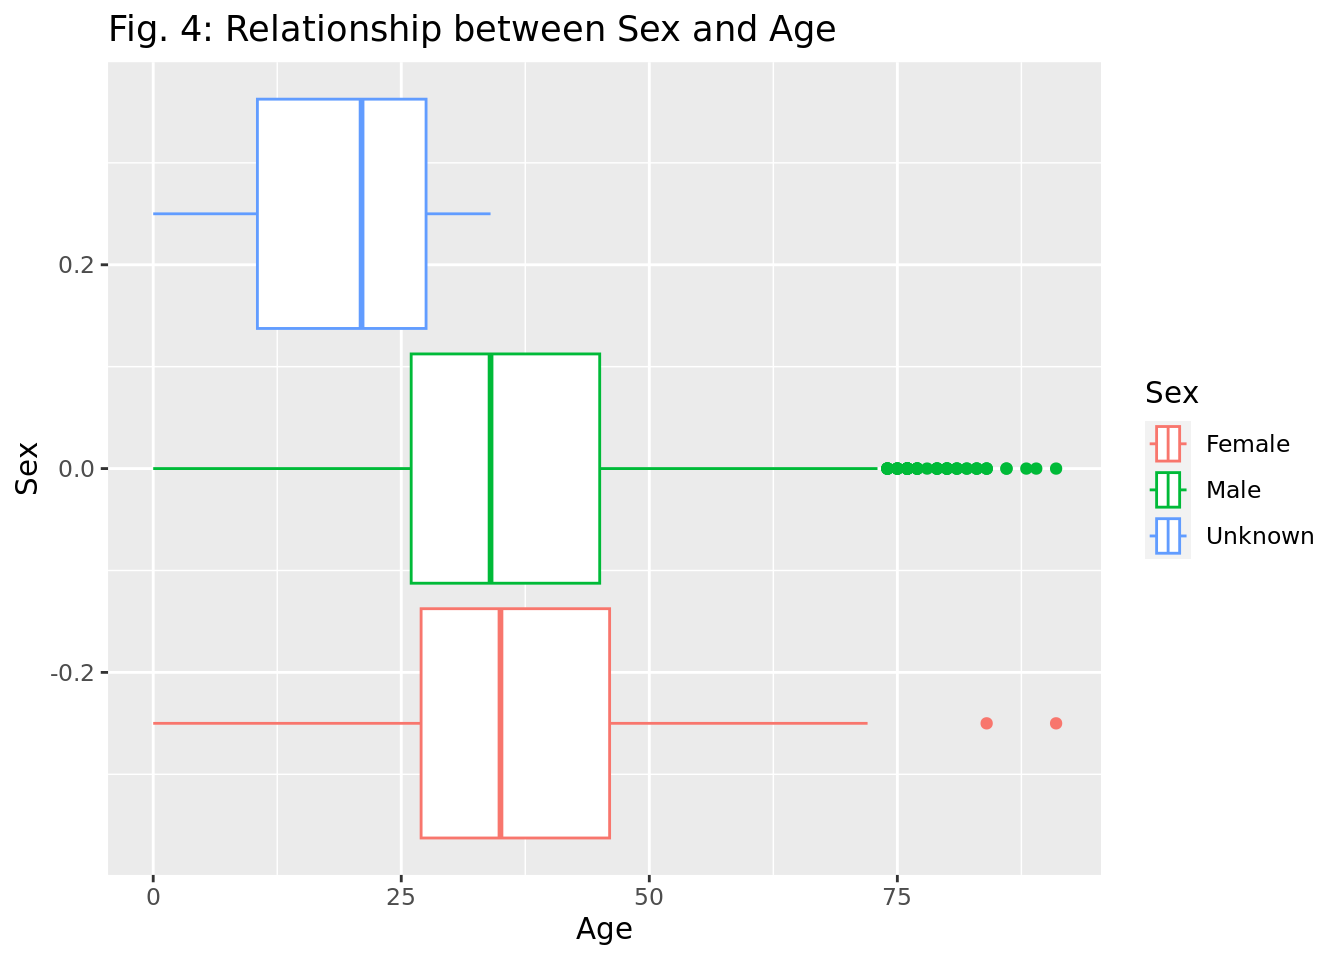
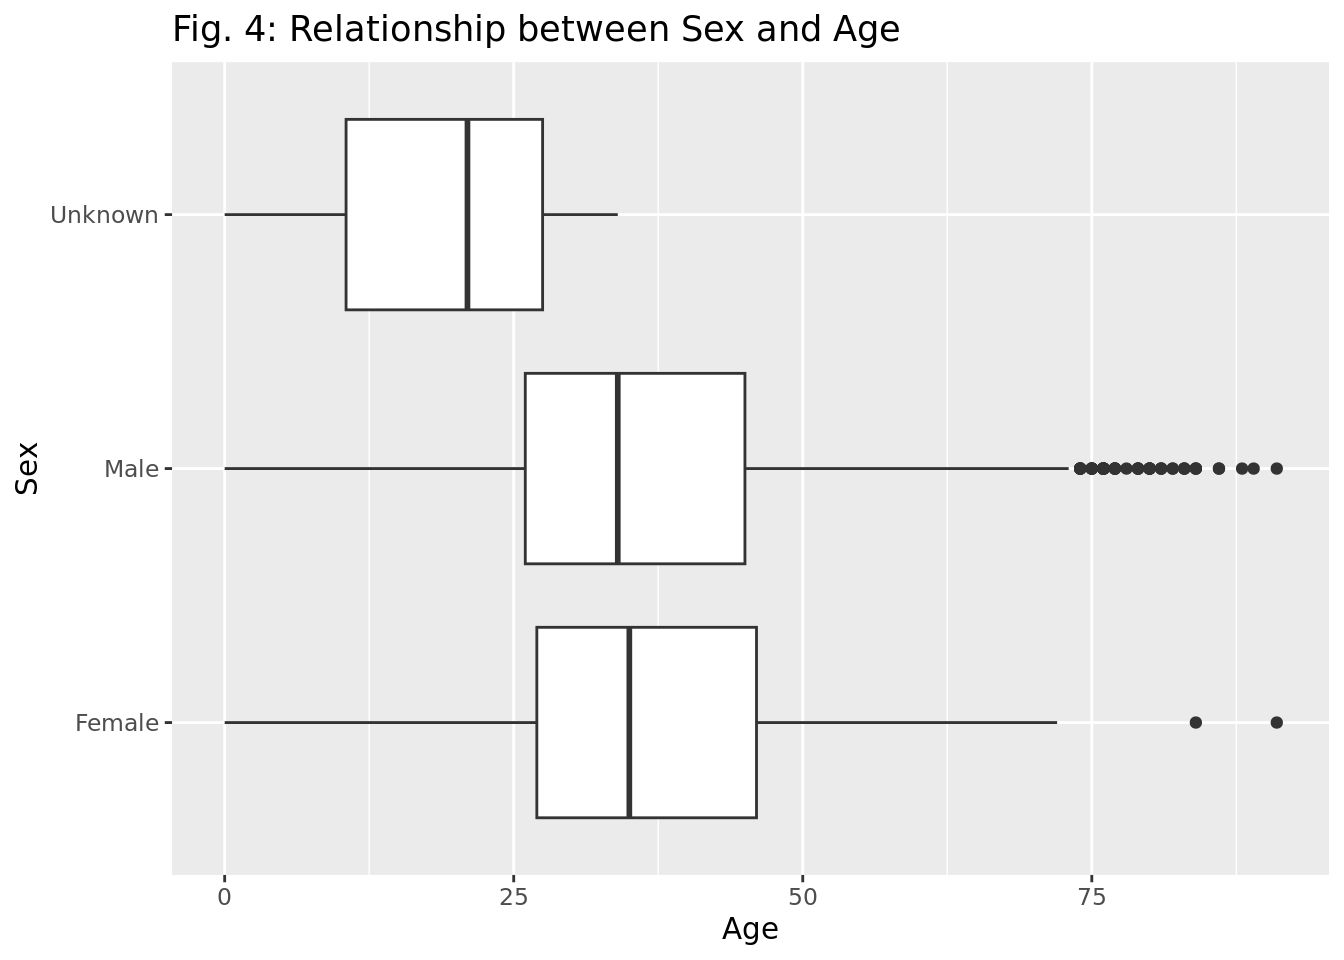
added AIC comments

diff --git a/docs/report.html b/docs/report.html
@@ -213,7 +213,7 @@ code span.wa { color: #60a0b0; font-weight: bold; font-style: italic; } /* Warni
 ✖ dplyr::lag()      masks stats::lag()
 ✖ yardstick::spec() masks readr::spec()
 ✖ recipes::step()   masks stats::step()
-• Dig deeper into tidy modeling with R at https://www.tmwr.org</code></pre>
+• Learn how to get started at https://www.tidymodels.org/start/</code></pre>
 </div>
 <div class="sourceCode cell-code" id="cb5"><pre class="sourceCode r code-with-copy"><code class="sourceCode r"><span id="cb5-1"><a href="#cb5-1" aria-hidden="true" tabindex="-1"></a><span class="fu">library</span>(readr)</span>
 <span id="cb5-2"><a href="#cb5-2" aria-hidden="true" tabindex="-1"></a><span class="fu">library</span>(infer)</span>
@@ -261,7 +261,7 @@ $ `Shooting.Body-Camera`   &lt;lgl&gt; TRUE, TRUE, TRUE, TRUE, TRUE, TRUE, TRUE,
 <p>How do race, gender, age, and whether a civilian was armed or not affect rates of police shootings across the United States from 2015 to 2021?</p>
 <p><strong>Data</strong></p>
 <p>Our data set includes 6569 rows, indicating that at least 6569 people were killed by police from 2015 to 2021. By discovering how different factors affect the number of shootings, we can begin to understand why these tragedies happen and what we can do to stop them from happening.</p>
-<p>Our research topic examines police shooting history on the basis of race, gender, and age. We hypothesize that male individuals of minority communities are most likely to consist of the largest victim population.</p>
+<p>Our research topic examines police shooting history on the basis of race, gender, and age. We hypothesize that male individuals who identify as a POC are most likely to consist of the largest victim population.</p>
 <p><strong>Ethical Concerns</strong></p>
 <p>One ethical concern is the possibility of misinformation in the data and a lack of accurate reporting. Not every police shooting is reported or handled correctly. Although <em>The Washington Post</em> collected the data from many different sources, there is no way of guaranteeing that the data set is fully comprehensive.</p>
 <p>Second, as demonstrated below, all 6,569 victims identified in this data set have been characterized as having a mental illness. As a result, we decide not to make a visualization based on the mental illness variable. We believe this would pose an ethical issue because mental health is a spectrum with varying characteristics and severity of impact. Having a mental illness cannot be reduced to a simple “TRUE” or “FALSE.” Instead, we decided that other variables would be a better focus.</p>
@@ -272,6 +272,7 @@ $ `Shooting.Body-Camera`   &lt;lgl&gt; TRUE, TRUE, TRUE, TRUE, TRUE, TRUE, TRUE,
 </div>
 </div>
 <p>Finally, a third concern is consent and whether the victims families want their loved ones to have identifying information (like name and information about their death) in a public database. This is a highly sensitive topic and should be treated as such.</p>
+<p>The following data was collected randomly and the observations are independent.</p>
 <p>We have identified several key variables that will advance our research question: Person.Name - String (Categorical)</p>
 <p><code>Person.Age</code> - Integer (Quantitative)</p>
 <p><code>Person.Gender</code> - String (Categorical)</p>
@@ -381,7 +382,7 @@ $ `Shooting.Body-Camera`   &lt;lgl&gt; TRUE, TRUE, TRUE, TRUE, TRUE, TRUE, TRUE,
 <div class="cell">
 <div class="sourceCode cell-code" id="cb19"><pre class="sourceCode r code-with-copy"><code class="sourceCode r"><span id="cb19-1"><a href="#cb19-1" aria-hidden="true" tabindex="-1"></a>police_shootings <span class="sc">|&gt;</span> </span>
 <span id="cb19-2"><a href="#cb19-2" aria-hidden="true" tabindex="-1"></a>  <span class="fu">ggplot</span>(</span>
-<span id="cb19-3"><a href="#cb19-3" aria-hidden="true" tabindex="-1"></a>    <span class="fu">aes</span>(<span class="at">x =</span> Person.Age, <span class="at">color =</span> Person.Race)) <span class="sc">+</span> </span>
+<span id="cb19-3"><a href="#cb19-3" aria-hidden="true" tabindex="-1"></a>    <span class="fu">aes</span>(<span class="at">x =</span> Person.Age, <span class="at">y =</span> Person.Race)) <span class="sc">+</span> </span>
 <span id="cb19-4"><a href="#cb19-4" aria-hidden="true" tabindex="-1"></a>    <span class="fu">geom_boxplot</span>() <span class="sc">+</span> </span>
 <span id="cb19-5"><a href="#cb19-5" aria-hidden="true" tabindex="-1"></a>    <span class="fu">labs</span>(<span class="at">title =</span> <span class="st">"Fig. 3: Relationship between Race and Age"</span>,</span>
 <span id="cb19-6"><a href="#cb19-6" aria-hidden="true" tabindex="-1"></a>         <span class="at">x =</span> <span class="st">"Age"</span>,</span>
@@ -394,7 +395,7 @@ $ `Shooting.Body-Camera`   &lt;lgl&gt; TRUE, TRUE, TRUE, TRUE, TRUE, TRUE, TRUE,
 <div class="cell">
 <div class="sourceCode cell-code" id="cb20"><pre class="sourceCode r code-with-copy"><code class="sourceCode r"><span id="cb20-1"><a href="#cb20-1" aria-hidden="true" tabindex="-1"></a>police_shootings <span class="sc">|&gt;</span> </span>
 <span id="cb20-2"><a href="#cb20-2" aria-hidden="true" tabindex="-1"></a>  <span class="fu">ggplot</span>(</span>
-<span id="cb20-3"><a href="#cb20-3" aria-hidden="true" tabindex="-1"></a>    <span class="fu">aes</span>(<span class="at">x =</span> Person.Age, <span class="at">color =</span> Person.Gender)) <span class="sc">+</span> </span>
+<span id="cb20-3"><a href="#cb20-3" aria-hidden="true" tabindex="-1"></a>    <span class="fu">aes</span>(<span class="at">x =</span> Person.Age, <span class="at">y =</span> Person.Gender)) <span class="sc">+</span> </span>
 <span id="cb20-4"><a href="#cb20-4" aria-hidden="true" tabindex="-1"></a>    <span class="fu">geom_boxplot</span>() <span class="sc">+</span> </span>
 <span id="cb20-5"><a href="#cb20-5" aria-hidden="true" tabindex="-1"></a>    <span class="fu">labs</span>(<span class="at">title =</span> <span class="st">"Fig. 4: Relationship between Sex and Age"</span>,</span>
 <span id="cb20-6"><a href="#cb20-6" aria-hidden="true" tabindex="-1"></a>         <span class="at">x =</span> <span class="st">"Age"</span>,</span>
@@ -454,7 +455,7 @@ $ `Shooting.Body-Camera`   &lt;lgl&gt; TRUE, TRUE, TRUE, TRUE, TRUE, TRUE, TRUE,
 <pre><code>[1] 8485.761</code></pre>
 </div>
 </div>
-<p>After fitting the logistic model and computing backwards elimination, we found the best model for our response variable(Factors.Threat.Level) to be an additive model between our four explanatory varibales: gender, race, armed status, and age. Therefore, whether or not a victim was seen as a threat was explaned with an additive interaction between gender, race, armed status, and age.</p>
+<p>After fitting the logistic model and computing backwards elimination, we found the best model for our response variable(Factors.Threat.Level) to be an additive model between our four explanatory variables: gender, race, armed status, and age. During backwards elimination, we fit several additive and interactive models between the four variables and determined the lowest AIC value. Therefore, whether or not a victim was seen as a threat was explained with an additive interaction between gender, race, armed status, and age.</p>
 <p>We will now investigate if the proportion of unarmed people who were shot by police equal for victims of color in comparison to white victims. We hypothesize that the proportion of unarmed people of color shot is significantly greater than the proportion of unarmed white people. In order to investigate this hypothesis, we will perform a hypothesis test using a significance level of <span class="math inline">\(\alpha = 0.05\)</span>.</p>
 <p>(Note: in the context of this question, we will consider someone as a “POC” if they do not identify as “White”)</p>
 <p><span class="math inline">\(\pi_{POC}\)</span> = the proportion of unarmed people out of those shot who identify as a POC.</p>
@@ -516,17 +517,7 @@ $ `Shooting.Body-Camera`   &lt;lgl&gt; TRUE, TRUE, TRUE, TRUE, TRUE, TRUE, TRUE,
 </div>
 </div>
 <p><strong>Results</strong></p>
-<<<<<<< HEAD
-<p>Based on our summary statistics for the entire data set, we observed that the mean and median age of shooting victims is 35.4 and 34.0 years, respectively. Moreover, the standard deviation of this age range is 14.9 years, demonstrating the wide spread of data points included.</p>
-<p>Figure 1 shows a slight decrease in shooting per day in 2021 though the total range of average shootings per day was from roughly 2.45 shootings to 2.8 shootings.</p>
-<p>Figure 2 looks at the arms status of victims by gender. This figure shows that female victims were more likely to be armed than male victims. One reason for this is that male victims could have been seen as more aggressive and therefore more likely to become a victim no matter if they were armed.</p>
-<p>In Figure 3, we can see that the age distribution of victims does not vary much between races. But if we look at the number of different races in the count of total victims, we can see white victims and African American victims were most common.</p>
-<p>As seen in Figure 4, the median age is roughly 34 years old for males and 35 years old for females. Male victims differ by their outliers, as many male victims are over the age of 75. The unknown victims appear to be significantly younger as seen by the median of ~21 years old.</p>
-<p>As seen in Figure 5, the most victimized race was white and black. Close to 3000 of the victims were white; whereas, over 1500 victims were black.</p>
-<p>As seen in Figure 6, the race with the most unarmed victims was black and the race with the least unarmed victims was Native American. This visualization can provide ample information on implicit bias and how race impacts the police’s approaches to interactions with different races.</p>
-<p>In Figure 7, we performed a hypothesis test, and got a p-value of 0.107. Utilizing a significance level of 0.05, we fail to reject the null hypothesis that the proportion of unarmed people out of those shot who identify as a POC is equal to the proportion of unarmed people out of those shot who identify as white, as 0.107 is greater than 0.05. Therefore, we have weak evidence to support the alternative hypothesis that the proportion of unarmed people out of those shot who identify as a POC is greater than the proportion of unarmed people out of those shot who identify as white.</p>
-=======
-<p>Based on our summary statistics for the entire data set, we observed that the mean and median age of shooting victims is 35.4 and 34.0 years, respectively. Moreover, the standard deviation of this age range is 14.9 years, demonstrating the wide spread of data points included. We noticed a slight decrease in shooting per day in 2021 though the total range of average shootings per day was small and somewhat insignificant (from roughly 2.45 shootings to 2.8 shootings). When looking at the arms status of victims by gender, female victims were more likely to be armed than male victims. One reason for this is that male victims could have been seen as more aggressive and therefore more likely to become a victim no matter if they were armed. The age distribution of victims does not vary much between races. When we look at the different races in the count of total victims, we can see white victims and african american victims were most common. Close to 2962 of the victims were white; whereas, 1552 victims were black. If race had no impact on probability of being a victim, the proportions of victims by race would be similar as the US population by race. White Americans represent 0.578 of the population. African americans make up 0.121 of the population.</p>
+<p>Based on our summary statistics for the entire data set, we observed that the mean and median age of shooting victims is 35.4 and 34.0 years, respectively. Moreover, the standard deviation of this age range is 14.9 years, demonstrating the wide spread of data points included. We noticed a slight decrease in shooting per day in 2021 though the total range of average shootings per day was small and somewhat insignificant (from roughly 2.45 shootings to 2.8 shootings). When looking at the arms status of victims by gender, female victims were more likely to be armed than male victims. One reason for this is that male victims could have been seen as more aggressive and therefore more likely to become a victim no matter if they were armed. The age distribution of victims does not vary much between races. When we look at the different races in the count of total victims, we can see white victims and African American victims were most common. Close to 2962 of the victims were white; whereas, 1552 victims were black. If race had no impact on probability of being a victim, the proportions of victims by race would be similar as the US population by race. White Americans represent 0.578 of the population. African Americans make up 0.121 of the population.</p>
 <div class="cell">
 <div class="sourceCode cell-code" id="cb32"><pre class="sourceCode r code-with-copy"><code class="sourceCode r"><span id="cb32-1"><a href="#cb32-1" aria-hidden="true" tabindex="-1"></a>police_shootings <span class="sc">|&gt;</span></span>
 <span id="cb32-2"><a href="#cb32-2" aria-hidden="true" tabindex="-1"></a>  <span class="fu">count</span>(Person.Race)</span></code><button title="Copy to Clipboard" class="code-copy-button"><i class="bi"></i></button></pre></div>
@@ -553,9 +544,8 @@ $ `Shooting.Body-Camera`   &lt;lgl&gt; TRUE, TRUE, TRUE, TRUE, TRUE, TRUE, TRUE,
 <pre><code>[1] 0.2362612</code></pre>
 </div>
 </div>
-<p>White americans represent 0.578 of the US population while they only represent 0.45 of the victims. African americans make up 0.121 of the population while they present 0.236 of the victims.Therefore we can see that african american were targeted at a higher rate than white americans.</p>
+<p>White Americans represent 0.578 of the US population while they only represent 0.45 of the victims. African Americans make up 0.121 of the population while they present 0.236 of the victims.Therefore we can see that African American were targeted at a higher rate than white Americans.</p>
 <p>The race with the most unarmed victims was black and the race with the least unarmed victims was Native American. Visualization can provide ample information on implicit bias and how race impacts the police’s approaches to interactions with different races. We also found the median age is roughly 34 years old for males and 35 years old for females. Male victims differ by their outliers, as many male victims are over the age of 75. The unknown victims appear to be significantly younger as seen by the median of ~21 years old. We performed a hypothesis test proportion of unarmed people out of those shot who identify as a POC is equal to the proportion of unarmed people out of those shot who identify as white, and got a p-value of 0.107. Utilizing a significance level of 0.05, we fail to reject the null hypothesis that the proportion of unarmed people out of those shot who identify as a POC is equal to the proportion of unarmed people out of those shot who identify as white, as 0.107 is greater than 0.05. Therefore, we have weak evidence to support the alternative hypothesis that the proportion of unarmed people out of those shot who identify as a POC is greater than the proportion of unarmed people out of those shot who identify as white.</p>
->>>>>>> 391033015f6228c5020bdb2d445d4871dcd9bb2b
 
 
 
